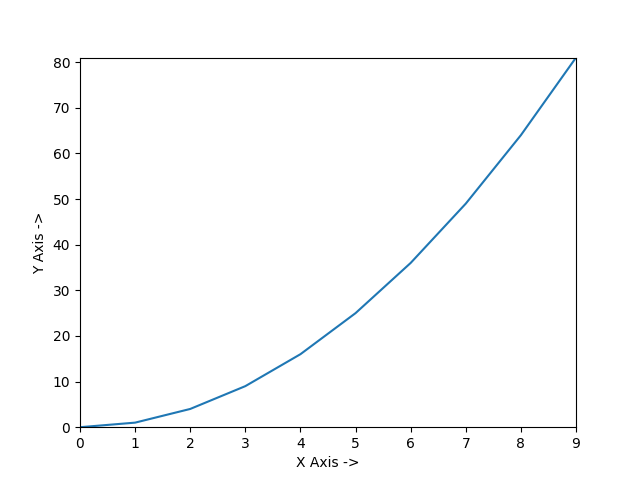
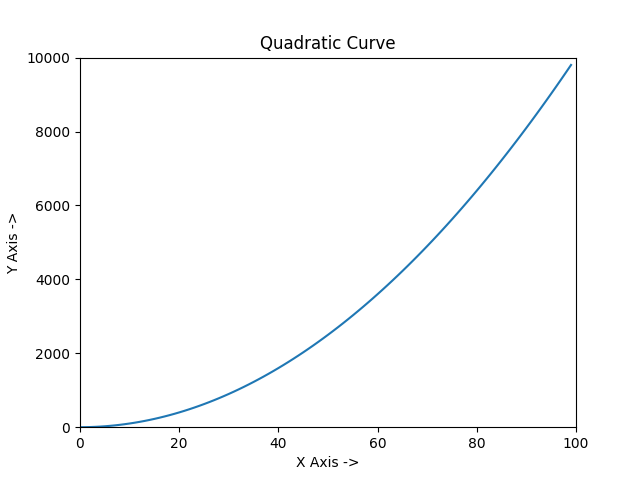
Figure added

diff --git a/Matplotlib/-Figures/Dual Axis.py b/Matplotlib/-Figures/Dual Axis.py
@@ -1,0 +1,35 @@
+import matplotlib.pyplot as plt
+import numpy as np
+
+a = np.linspace(0,10,11)
+b = a ** 4
+
+x = np.arange(0,10)
+y = 2 * x
+
+# Creates blank canvas
+fig = plt.figure()
+'''<Figure size 432x288 with 0 Axes>'''
+
+
+axes1 = fig.add_axes([0.1, 0.1, 0.9, 0.9]) # Large figure
+axes2 = fig.add_axes([0.2, 0.5, 0.25, 0.25]) # Smaller figure
+
+# Larger Figure Axes 1
+axes1.plot(a, b)
+
+# Use set_ to add to the axes figure
+axes1.set_xlabel('X Label')
+axes1.set_ylabel('Y Label')
+axes1.set_title('Big Figure')
+
+# Insert Figure Axes 2
+axes2.plot(a,b)
+axes2.set_xlim(8,10)
+axes2.set_ylim(4000,10000)
+axes2.set_xlabel('X')
+axes2.set_ylabel('Y')
+axes2.set_title('Zoomed In')
+
+plt.savefig('Matplotlib\-Figures\Dual-Axis.png')
+plt.show()

diff --git a/Matplotlib/Basics/Plot.py b/Matplotlib/Basics/Plot.py
@@ -1,7 +1,7 @@
 import matplotlib.pyplot as plt
 import numpy as np
 
-x = np.arange(0,10)
+x = np.arange(0,100)
 y = x**2
 # print(x)
 # print(y)
@@ -9,7 +9,8 @@ y = x**2
 plt.plot(x, y)
 plt.xlabel("X Axis ->")
 plt.ylabel("Y Axis ->")
-plt.xlim(0,9) # Lower Limit, Upper Limit
-plt.ylim(0,81) # Lower Limit, Upper Limit
+plt.xlim(0,100) # Lower Limit, Upper Limit
+plt.ylim(0,10000) # Lower Limit, Upper Limit
+plt.title('Quadratic Curve')
 plt.savefig('Matplotlib\Basics\Plot-Image.png')
 plt.show()
